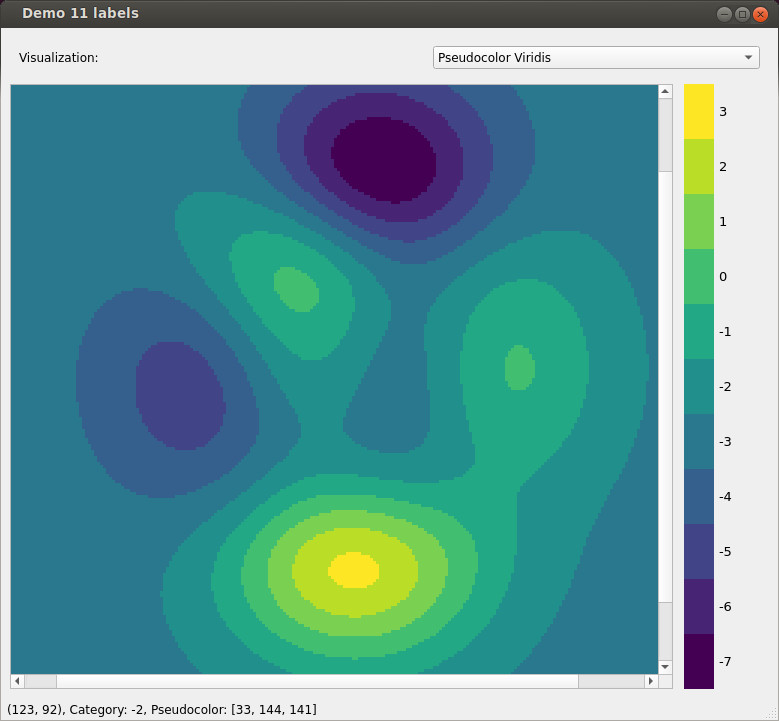
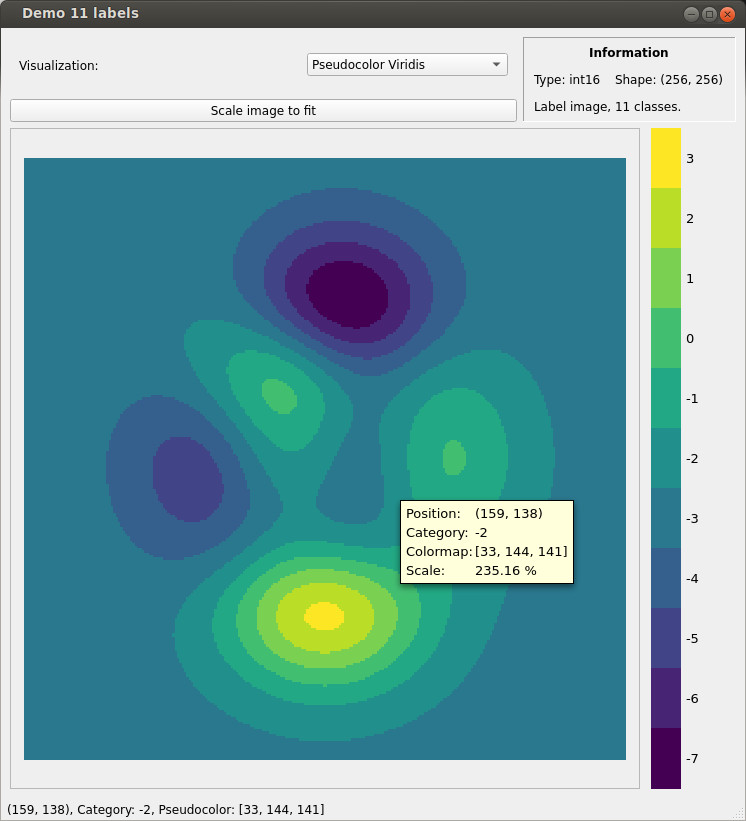
display information on ui, restore scrollbar settings

diff --git a/python/iminspect/inspector.py b/python/iminspect/inspector.py
@@ -171,69 +171,118 @@ class Inspector(QMainWindow):
         self._visualized_data = None        # Currently visualized data (e.g. a single channel)
         self._visualized_pseudocolor = None # Currently visualized pseudocolorized data
         self._reset_viewer = True           # Flag to reset (adjust size and translation) the image viewer
+
+        # Set up GUI
         self._prepareLayout()
         self.show()
-
-        print('##################################################\nData inspection:\n')
-        print('Data type: {}'.format(data.dtype))
-        print('Shape:     {}\n'.format(data.shape))
-        self._data_limits = [np.min(data[:]), np.max(data[:])]
-        print('Minimum: {}'.format(self._data_limits[0]))
-        print('Maximum: {}'.format(self._data_limits[1]))
-        print('Mean:    {}\n'.format(np.mean(data[:])))
-        if not self._is_single_channel:
-            for c in range(data.shape[2]):
-                print('Minimum on channel {}: {}'.format(c, np.min(data[:,:,c])))
-                print('Maximum on channel {}: {}'.format(c, np.max(data[:,:,c])))
-                print('Mean on channel {}:    {}\n'.format(c, np.mean(data[:,:,c])))
-        # Select format function to display data in status bar/tooltip
-        if data.dtype == np.bool:
-            self._data_limits = [float(v) for v in self._data_limits]
-            self.__fmt_fx = fmtb
-            self._colorbar.setBoolean(True)
-        elif is_categoric:
-            self.__fmt_fx = fmti
-            self._data_categories, ic = np.unique(data, return_inverse=True)
-            self._data_inverse_categories = ic.reshape(data.shape)
-            self._colorbar.setCategories(self._data_categories)
-            print('This is a categoric/label image with {:d} categories'.format(len(self._data_categories)))
-        else:
-            self.__fmt_fx = best_format_fx(self._data_limits)
-
+        # Analyze the given data (range, data type, channels, etc.)
+        self._queryStatistics()
         # Now we're ready to visualize the data
         self._updateDisplay()
         # Restore display settings
         self.restoreDisplaySettings(display_settings)
 
+    def _queryStatistics(self):
+        """Analyzes the internal _data field (range, data type, channels, 
+        etc.) and sets member variables accordingly.
+        Additionally, information will be printed to stdout and shown on
+        the GUI.
+        """
+        self._data_limits = [np.min(self._data[:]), np.max(self._data[:])]
+
+        stdout_str = list()
+        stdout_str.append('##################################################\nData inspection:\n')
+        stdout_str.append('Data type: {}'.format(self._data.dtype))
+        stdout_str.append('Shape:     {}\n'.format(self._data.shape))
+        #
+        lbl_txt = '<table cellpadding="5"><tr><th colspan="2">Information</th></tr>'
+        lbl_txt += '<tr><td>Type: {}</td><td>Shape: {}</td></tr>'.format(self._data.dtype, self._data.shape)
+
+        # Select format function to display data in status bar/tooltip
+        if self._data.dtype == np.bool:
+            self._data_limits = [float(v) for v in self._data_limits]
+            self.__fmt_fx = fmtb
+            self._colorbar.setBoolean(True)
+        elif self._is_categoric:
+            self.__fmt_fx = fmti
+            self._data_categories, ic = np.unique(self._data, return_inverse=True)
+            self._data_inverse_categories = ic.reshape(self._data.shape)
+            self._colorbar.setCategories(self._data_categories)
+        else:
+            self.__fmt_fx = best_format_fx(self._data_limits)
+
+        if self._is_categoric:
+            stdout_str.append('This is a categoric/label image with {:d} categories'.format(len(self._data_categories)))
+            lbl_txt += '<tr><td colspan="2">Label image, {:d} classes.</td></tr>'.format(len(self._data_categories))
+        elif self._data.dtype == np.bool:
+            lbl_txt += '<tr><td colspan="2">Binary mask.</td></tr>'
+        else:
+            global_mean = np.mean(self._data[:])
+            global_std = np.std(self._data[:])
+            #
+            stdout_str.append('Minimum: {}'.format(self._data_limits[0]))
+            stdout_str.append('Maximum: {}'.format(self._data_limits[1]))
+            stdout_str.append('Mean:    {} +/- {}\n'.format(global_mean, global_std))
+            #
+            lbl_txt += '<tr><td>Range: [{}, {}]</td><td>Mean: {} &#177; {}</td></tr>'.format(
+                self.__fmt_fx(self._data_limits[0]),
+                self.__fmt_fx(self._data_limits[1]),
+                self.__fmt_fx(global_mean),
+                self.__fmt_fx(global_std))
+
+            if not self._is_single_channel:
+                for c in range(self._data.shape[2]):
+                    cmin = np.min(self._data[:,:,c])
+                    cmax = np.max(self._data[:,:,c])
+                    cmean = np.mean(self._data[:,:,c])
+                    cstd = np.std(self._data[:,:,c])
+                    #
+                    stdout_str.append('Minimum on channel {}: {}'.format(c, cmin))
+                    stdout_str.append('Maximum on channel {}: {}'.format(c, cmax))
+                    stdout_str.append('Mean on channel {}:    {} +/- {}\n'.format(c, cmean, cstd))
+                    #
+                    lbl_txt += '<tr><td>Channel {} range: [{}, {}]</td><td>Mean: {} &#177; {}</td></tr>'.format(
+                        c, self.__fmt_fx(cmin), self.__fmt_fx(cmax), self.__fmt_fx(cmean), self.__fmt_fx(cstd))
+
+        # Print to stdout
+        for s in stdout_str:
+            print(s)
+        # Show on label
+        lbl_txt += '</table>'
+        self._data_label.setText(lbl_txt)
+
     def currentDisplaySettings(self):
-        #TODO add UI selections; merge dicts: d1.update(d2)
         settings = {
             'wsize': self.size(),
             'screenpos': self.mapToGlobal(QPoint(0, 0)),
-            'cb:sor': self._checkbox_scale_on_resize.get_input()
+            'dd:vis': self._visualization_dropdown.get_input()[0]
         }
+        if not self._is_single_channel:
+            settings['dd:layer'] = self._layer_dropdown.get_input()[0]
+            settings['cb:globlim'] = self._checkbox_global_limits.get_input()
         settings.update(self._img_viewer.currentDisplaySettings())
         return settings
 
     def restoreDisplaySettings(self, settings):
         if settings is None:
             return
-        #TODO restore UI selections (requires setValue for custom input widgets)
+        # Restore customized UI settings
+        self._visualization_dropdown.set_value(settings['dd:vis'])
+        if not self._is_single_channel:
+            self._layer_dropdown.set_value(settings['dd:layer'])
+            self._checkbox_global_limits.set_value(settings['cb:globlim'])
+        # Restore window position/dimension
         self.resize(settings['wsize'])
         # Note that restoring the position doesn't always work (issues with
         # windows that are placed partially outside the screen)
         self.move(settings['screenpos'])
+        # Restore zoom/translation settings
         self._img_viewer.restoreDisplaySettings(settings)
-
-    def resizeEvent(self, event):
-        super(type(self), self).resizeEvent(event)
-        if self._checkbox_scale_on_resize.get_input():
-            self._img_viewer.scaleToFitWindow()
-
+        self._updateDisplay()
 
     def _prepareLayout(self):
         self._main_widget = QWidget()
-        main_layout = QVBoxLayout()
+        input_layout = QVBoxLayout()
 
         # Let user select a single channel if multi-channel input is provided
         self._is_single_channel = (len(self._data.shape) == 2) or (self._data.shape[2] == 1)
@@ -241,11 +290,11 @@ class Inspector(QMainWindow):
             dd_options = [(-1, 'All')] + [(c, 'Layer {:d}'.format(c)) for c in range(self._data.shape[2])]
             self._layer_dropdown = inputs.DropDownSelectionWidget('Select layer:', dd_options)
             self._layer_dropdown.value_changed.connect(self._updateDisplay)
-            main_layout.addWidget(self._layer_dropdown)
+            input_layout.addWidget(self._layer_dropdown)
 
         if not self._is_single_channel and not self._is_categoric:
             self._checkbox_global_limits = inputs.CheckBoxWidget('Use same visualization limits for all channels:', checkbox_left=False, is_checked=True)
-            main_layout.addWidget(self._checkbox_global_limits)
+            input_layout.addWidget(self._checkbox_global_limits)
             self._checkbox_global_limits.value_changed.connect(self._updateDisplay)
         else:
             self._checkbox_global_limits = None
@@ -258,11 +307,18 @@ class Inspector(QMainWindow):
         self._visualization_dropdown = inputs.DropDownSelectionWidget('Visualization:', vis_options,
             initial_selected_index = 0 if not self._is_single_channel else len(type(self).VIS_COLORMAPS)-1+2)
         self._visualization_dropdown.value_changed.connect(self._updateDisplay)
-        main_layout.addWidget(self._visualization_dropdown)
+        input_layout.addWidget(self._visualization_dropdown)
 
-        # Let the user decide whether to scale the image upon window resize events.
-        self._checkbox_scale_on_resize = inputs.CheckBoxWidget('Scale image on window resize:', checkbox_left=False, is_checked=False)
-        main_layout.addWidget(self._checkbox_scale_on_resize)
+        # Button to allow user scaling the displayed image
+        btn_scale_to_fit = QPushButton('Scale image to fit')
+        btn_scale_to_fit.clicked.connect(lambda: self._img_viewer.scaleToFitWindow())
+        input_layout.addWidget(btn_scale_to_fit)
+
+        # Label to show important image statistics/information
+        self._data_label = QLabel()
+        self._data_label.setFrameShape(QFrame.Panel)
+        self._data_label.setFrameShadow(QFrame.Sunken)
+        #TODO reorganize layout (e.g. data_label next to input fields)
 
         # Image viewer and colorbar        
         img_layout = QHBoxLayout()
@@ -272,14 +328,21 @@ class Inspector(QMainWindow):
         
         self._colorbar = ColorBar()
         img_layout.addWidget(self._colorbar)
-        main_layout.addLayout(img_layout)
 
         # Set font of tool tips
         QToolTip.setFont(QFont('SansSerif', 10))
 
         # Grab a convenience handle to the status bar
         self._status_bar = self.statusBar()
-        # Set the layout
+
+        # Place the information label next to the user inputs:
+        top_row_layout = QHBoxLayout()
+        top_row_layout.addLayout(input_layout)
+        top_row_layout.addWidget(self._data_label)
+        # Set the main widget's layout
+        main_layout = QVBoxLayout()
+        main_layout.addLayout(top_row_layout)
+        main_layout.addLayout(img_layout)
         self._main_widget.setLayout(main_layout)
         self.setCentralWidget(self._main_widget)
         self.resize(QSize(1280, 720))

diff --git a/python/iminspect/imgview.py b/python/iminspect/imgview.py
@@ -134,22 +134,33 @@ class ImageViewer(QScrollArea):
         self.verticalScrollBar().sliderMoved.connect(lambda v: self.sliderChanged(v, Qt.Vertical))
         self.horizontalScrollBar().sliderMoved.connect(lambda v: self.sliderChanged(v, Qt.Horizontal))
 
+
     def currentDisplaySettings(self):
         """Query the current zoom/scroll settings, so you can restore them.
         For example, if you want to show the same region of interest for another
         image.
         """
-        return { Qt.Vertical: self.verticalScrollBar().value(),
-            Qt.Horizontal: self.horizontalScrollBar().value(),
-            'zoom': self._img_scale
-        }
+        settings = {'zoom': self._img_scale}
+        for orientation in [Qt.Horizontal, Qt.Vertical]:
+            bar = self._scoll_bars[orientation]
+            settings[orientation] = (bar.minimum(), bar.value(), bar.maximum())
+        return settings
 
     def restoreDisplaySettings(self, settings):
-        # First, zoom in, then scroll.
         self._img_scale = settings['zoom']
         self.paintCanvas()
+        # Potential issue: scrollbars may only appear during repainting the
+        # widget. Then, setting their value won't work. Best and least 
+        # complicated way I found so far: force Qt to process the event loop
+        # after adjusting the bar's range (and before setting the new value).
         for orientation in [Qt.Horizontal, Qt.Vertical]:
-            self._scoll_bars[orientation].setValue(settings[orientation])
+            bar = self._scoll_bars[orientation]
+            bmin, bval, bmax = settings[orientation]
+            if bval != 0:
+                bar.setMinimum(bmin)
+                bar.setMaximum(bmax)
+                qApp.processEvents()
+                bar.setValue(bval)
 
     def currentImageScale(self):
         """Returns the currently applied image scale factor."""

diff --git a/python/iminspect/inputs.py b/python/iminspect/inputs.py
@@ -8,6 +8,9 @@ etc. Additionally, they emit a single signal "value_changed" and provide a
 for all the Qt standard widgets).
 """ 
 
+#TODO implement set_value for remaining widgets (currently only needed for 
+# checkboxes and dropdowns)
+
 import os
 import sys
 from enum import Enum
@@ -68,6 +71,9 @@ class CheckBoxWidget(InputWidget):
     def get_input(self):
         return self._cb.isChecked()
 
+    def set_value(self, b):
+        self._cb.setChecked(b)
+
 
 class SliderSelectionWidget(InputWidget):
     def __init__(self, label, min_value, max_value, num_steps, initial_value=None, label_format='{:d}', parent=None, min_label_width=None):
@@ -124,6 +130,10 @@ class SliderSelectionWidget(InputWidget):
 
     def get_input(self):
         return self.__slider_value()
+
+    def set_value(self, v):
+        self._slider.setValue(self.__to_slider_value(v))
+        self.__value_changed()
         
 
 
@@ -156,10 +166,19 @@ class DropDownSelectionWidget(InputWidget):
     def select_index(self, idx):
         self._combo.setCurrentIndex(idx)
 
-
     def get_input(self):
         return (self._combo.currentData(), self._combo.currentText())
 
+    def set_value(self, id):
+        """Selects the drop down element by its id (the one you specify
+        upon creation of this widget)."""
+        if id is tuple:
+            eid = id[0]
+        else:
+            eid = id
+        idx = self._combo.findData(eid)
+        if idx != -1:
+            self.select_index(idx)
 
 
 class SizeWidget(InputWidget):
